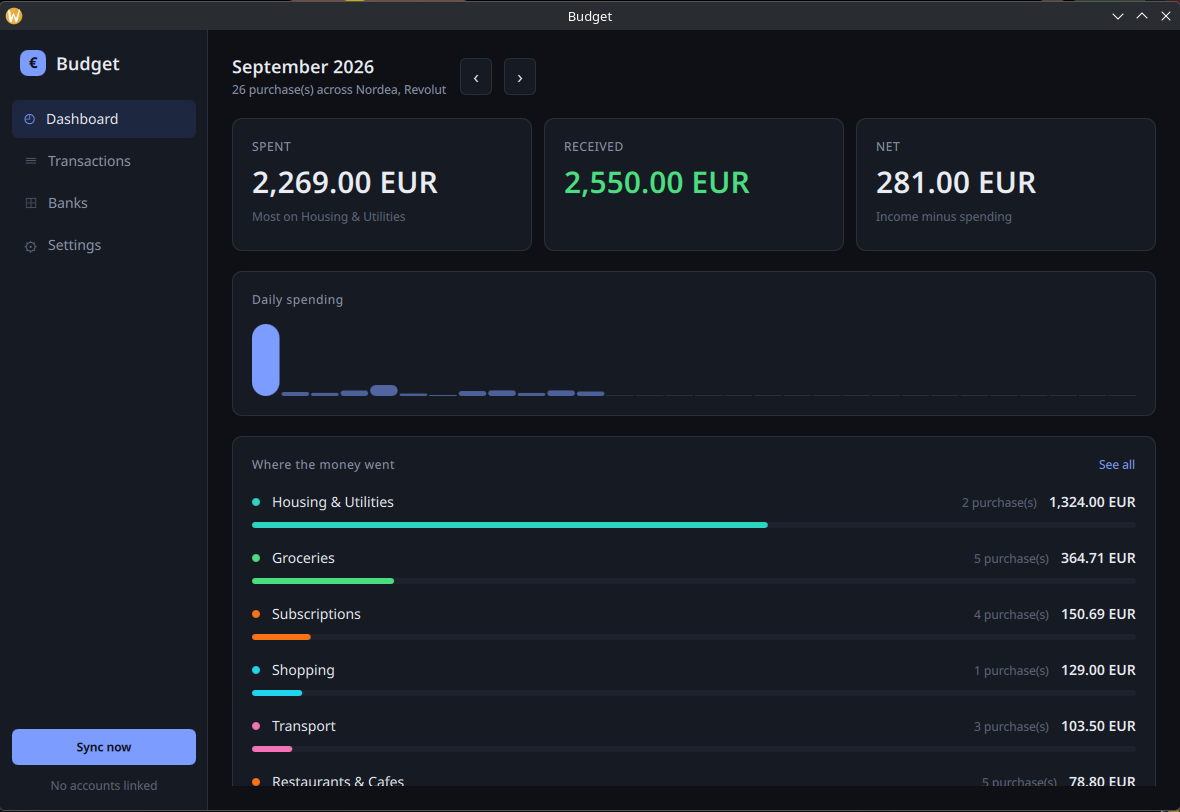
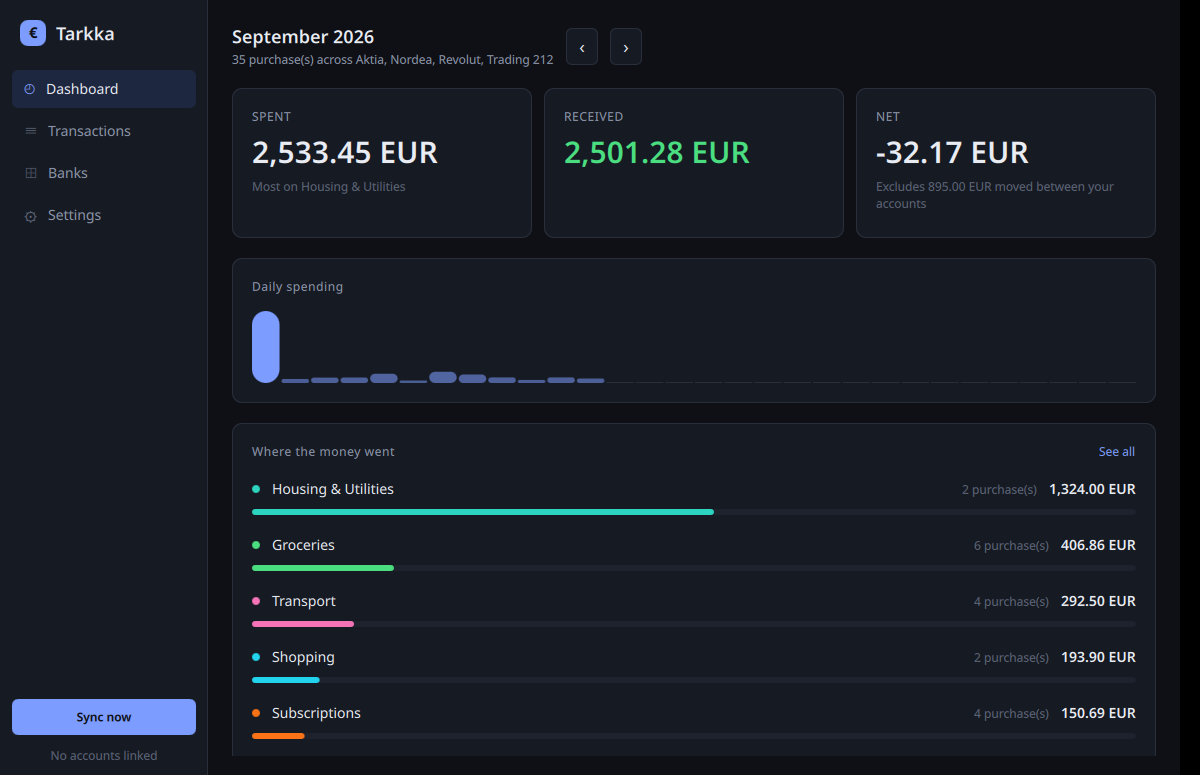
Rename the app to Tarkka
"Budget" described the category, not the product. Tarkka is Finnish for
precise, and said of a person it means careful with money -- a pun that works
in Finnish and stays invisible in English, which is the point. It also survives
an English mouth intact: TAR-ka, rhyming with parka, with no diacritics or
diphthongs to trip over.

Checked against Finnish finance before settling: Saldo and Puro are both taken
by actual Finnish financial companies, Silta is the country's largest payroll
provider and SATO a major landlord. Tarkka is clear.

The name replaces Budget throughout -- window title, QML module URI, library
and executable targets, and the organisation and application identifiers that
determine where data lives. Prose uses of the English word "budget" are left
alone; they describe the domain, not the app.

Data now lives under ~/.local/share/tarkka/Tarkka/ and settings in
~/.config/tarkka/Tarkka.conf. Nothing needed migrating -- the old locations had
never been written to outside a scratch directory.

diff --git a/qml/Main.qml b/qml/Main.qml
@@ -3,7 +3,7 @@ pragma ComponentBehavior: Bound
 import QtQuick
 import QtQuick.Controls.Basic
 import QtQuick.Layouts
-import BudgetApp
+import Tarkka
 
 ApplicationWindow {
     id: window
@@ -20,7 +20,7 @@ ApplicationWindow {
     minimumWidth: 860
     minimumHeight: 560
     visible: true
-    title: qsTr("Budget")
+    title: qsTr("Tarkka")
     color: Theme.background
 
     RowLayout {
@@ -68,7 +68,7 @@ ApplicationWindow {
 
                     Text {
                         Layout.fillWidth: true
-                        text: qsTr("Budget")
+                        text: qsTr("Tarkka")
                         color: Theme.text
                         font.pixelSize: Theme.fontSizeTitle
                         font.weight: Font.DemiBold

diff --git a/qml/SettingsView.qml b/qml/SettingsView.qml
@@ -2,7 +2,7 @@ import QtQuick
 import QtQuick.Controls.Basic
 import QtQuick.Dialogs
 import QtQuick.Layouts
-import BudgetApp
+import Tarkka
 
 ScrollView {
     id: view
@@ -92,7 +92,7 @@ ScrollView {
                             Layout.fillWidth: true
                             Layout.preferredHeight: 34
                             text: AppController.privateKeyPath
-                            placeholderText: qsTr("/home/you/.config/budget/enablebanking.pem")
+                            placeholderText: qsTr("/home/you/.config/tarkka/enablebanking.pem")
                             color: Theme.text
                             placeholderTextColor: Theme.textFaint
                             selectByMouse: true

diff --git a/qml/components/SpendSparkline.qml b/qml/components/SpendSparkline.qml
@@ -3,7 +3,7 @@ pragma ComponentBehavior: Bound
 import QtQuick
 import QtQuick.Controls.Basic
 import QtQuick.Layouts
-import BudgetApp
+import Tarkka
 
 /*!
     Daily outgoing totals across the selected range.

diff --git a/qml/DashboardView.qml b/qml/DashboardView.qml
@@ -3,7 +3,7 @@ pragma ComponentBehavior: Bound
 import QtQuick
 import QtQuick.Controls.Basic
 import QtQuick.Layouts
-import BudgetApp
+import Tarkka
 
 ScrollView {
     id: view

diff --git a/qml/TransactionsView.qml b/qml/TransactionsView.qml
@@ -3,7 +3,7 @@ pragma ComponentBehavior: Bound
 import QtQuick
 import QtQuick.Controls.Basic
 import QtQuick.Layouts
-import BudgetApp
+import Tarkka
 
 Item {
     id: view

diff --git a/qml/ConnectView.qml b/qml/ConnectView.qml
@@ -4,7 +4,7 @@ import QtQuick
 import QtQuick.Controls.Basic
 import QtQuick.Dialogs
 import QtQuick.Layouts
-import BudgetApp
+import Tarkka
 
 ScrollView {
     id: view

diff --git a/qml/components/TransactionDelegate.qml b/qml/components/TransactionDelegate.qml
@@ -1,7 +1,7 @@
 import QtQuick
 import QtQuick.Controls.Basic
 import QtQuick.Layouts
-import BudgetApp
+import Tarkka
 
 ItemDelegate {
     id: delegate

diff --git a/qml/components/CategoryBars.qml b/qml/components/CategoryBars.qml
@@ -2,7 +2,7 @@ pragma ComponentBehavior: Bound
 
 import QtQuick
 import QtQuick.Layouts
-import BudgetApp
+import Tarkka
 
 ColumnLayout {
     id: root

diff --git a/qml/components/EmptyState.qml b/qml/components/EmptyState.qml
@@ -1,7 +1,7 @@
 import QtQuick
 import QtQuick.Controls.Basic
 import QtQuick.Layouts
-import BudgetApp
+import Tarkka
 
 ColumnLayout {
     id: root

diff --git a/qml/components/StatusBanner.qml b/qml/components/StatusBanner.qml
@@ -1,7 +1,7 @@
 import QtQuick
 import QtQuick.Controls.Basic
 import QtQuick.Layouts
-import BudgetApp
+import Tarkka
 
 Rectangle {
     id: banner

diff --git a/qml/components/SummaryCard.qml b/qml/components/SummaryCard.qml
@@ -1,6 +1,6 @@
 import QtQuick
 import QtQuick.Layouts
-import BudgetApp
+import Tarkka
 
 Rectangle {
     id: card

diff --git a/src/main.cpp b/src/main.cpp
@@ -7,9 +7,9 @@ int main(int argc, char *argv[])
 {
     QGuiApplication app(argc, argv);
 
-    QCoreApplication::setOrganizationName(QStringLiteral("budget-app"));
-    QCoreApplication::setApplicationName(QStringLiteral("Budget"));
-    QCoreApplication::setApplicationVersion(QStringLiteral(BUDGET_APP_VERSION));
+    QCoreApplication::setOrganizationName(QStringLiteral("tarkka"));
+    QCoreApplication::setApplicationName(QStringLiteral("Tarkka"));
+    QCoreApplication::setApplicationVersion(QStringLiteral(TARKKA_VERSION));
 
     // The app ships its own palette, so pin the style rather than inheriting a
     // desktop theme that would fight it.
@@ -18,7 +18,7 @@ int main(int argc, char *argv[])
     QQmlApplicationEngine engine;
     QObject::connect(&engine, &QQmlApplicationEngine::objectCreationFailed, &app,
                      [] { QCoreApplication::exit(1); }, Qt::QueuedConnection);
-    engine.loadFromModule("BudgetApp", "Main");
+    engine.loadFromModule("Tarkka", "Main");
 
     return app.exec();
 }
